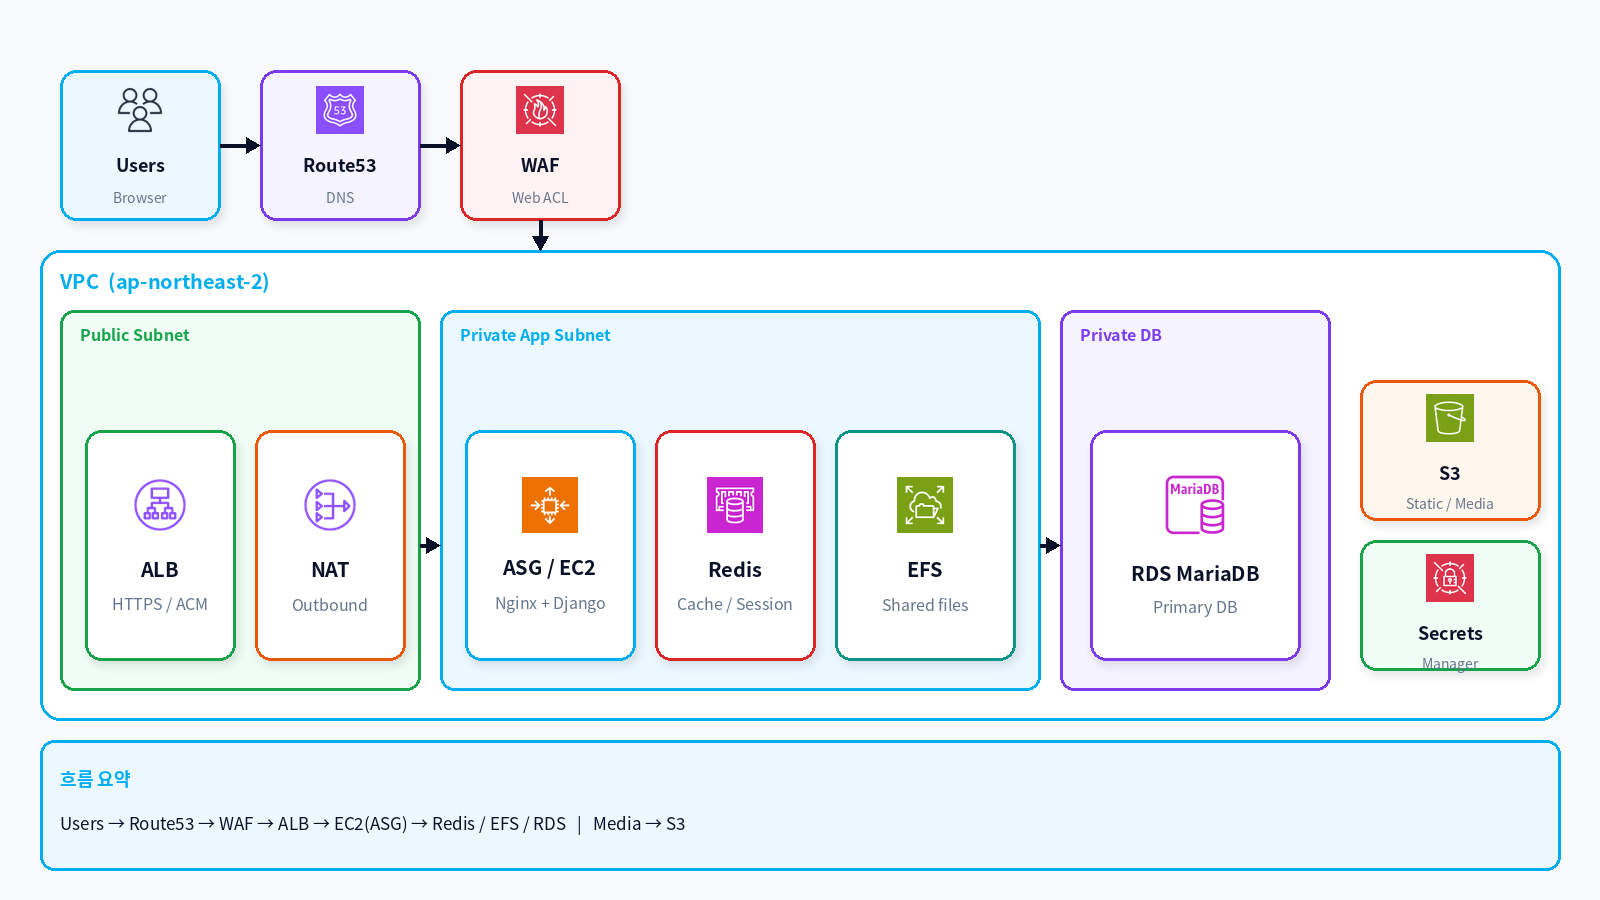
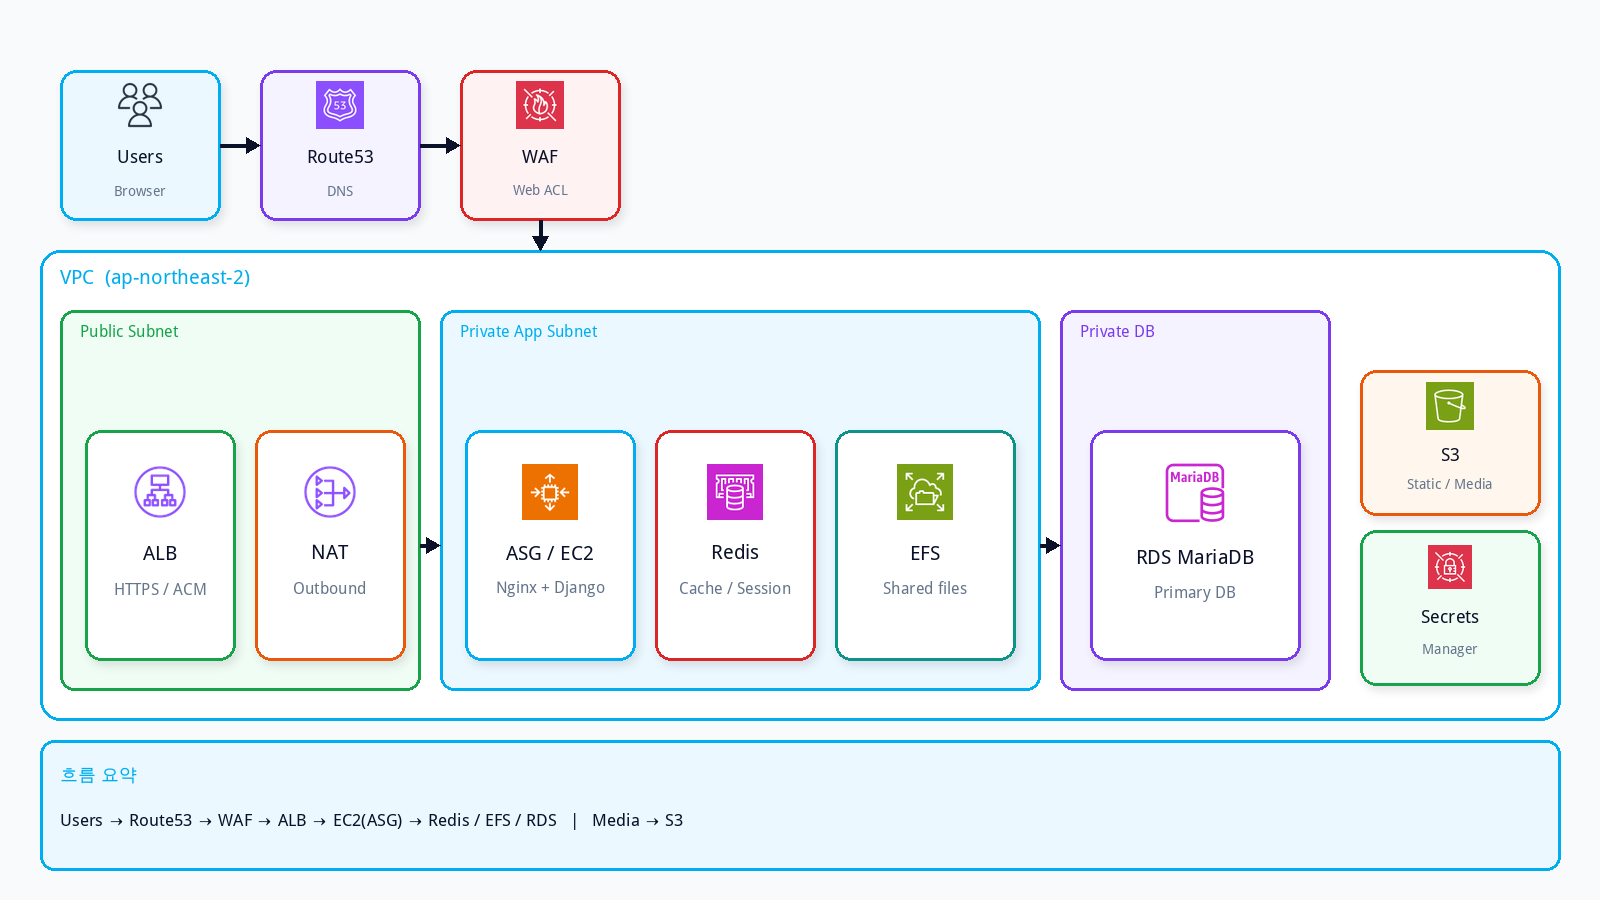
docs(presentation): Secrets Manager 라벨이 타일 바닥에 붙지 않도록 수정
V1 구성도 Secrets 타일 높이·하단 여백을 늘려 Manager 글씨가 테두리에 겹치지 않게 함.

diff --git a/docs/presentation/make_hybrid_diagrams.py b/docs/presentation/make_hybrid_diagrams.py
@@ -106,12 +106,13 @@ def tile(img, x, y, w, h, icon, title, sub, border=CYAN, bg=SOFT_BLUE, icon_size
     has_sub = bool(sub)
     title_f = fnt(18 if h < 160 else 20, True)
     sub_f = fnt(14 if h < 160 else 16)
-    gap = 12 if h < 180 else 16
-    title_h = 24
-    sub_h = 20 if has_sub else 0
+    gap = 10 if h < 150 else (12 if h < 180 else 16)
+    title_h = 22 if h < 150 else 24
+    sub_h = 18 if has_sub and h < 150 else (20 if has_sub else 0)
     stack = icon_size + gap + title_h + (gap + sub_h if has_sub else 0)
-    # slightly below geometric center so icons don't sit too high
-    top = y + max(14, int((h - stack) * 0.48))
+    # keep bottom padding so subtitle (e.g. Manager) doesn't sit on the border
+    bottom_pad = 14 if h < 150 else 12
+    top = y + max(10, min(int((h - stack) * 0.35), h - stack - bottom_pad))
 
     paste_icon(img, icon, x + w // 2, top + icon_size // 2, icon_size)
     ty = top + icon_size + gap + title_h // 2
@@ -163,8 +164,8 @@ def make_arch_v1():
     d.text((1080, 322), "Private DB", font=fnt(16, True), fill=PURPLE)
     tile(img, 1090, 430, 210, 230, "rds_maria", "RDS MariaDB", "Primary DB", PURPLE, WHITE, 64)
 
-    tile(img, 1360, 380, 180, 140, "s3", "S3", "Static / Media", ORANGE, SOFT_ORANGE, 48)
-    tile(img, 1360, 540, 180, 130, "secrets", "Secrets", "Manager", GREEN, SOFT_GREEN, 48)
+    tile(img, 1360, 370, 180, 145, "s3", "S3", "Static / Media", ORANGE, SOFT_ORANGE, 48)
+    tile(img, 1360, 530, 180, 155, "secrets", "Secrets", "Manager", GREEN, SOFT_GREEN, 44)
 
     d = ImageDraw.Draw(img)
     arrow_h(d, 220, 145, 260, NAVY)
